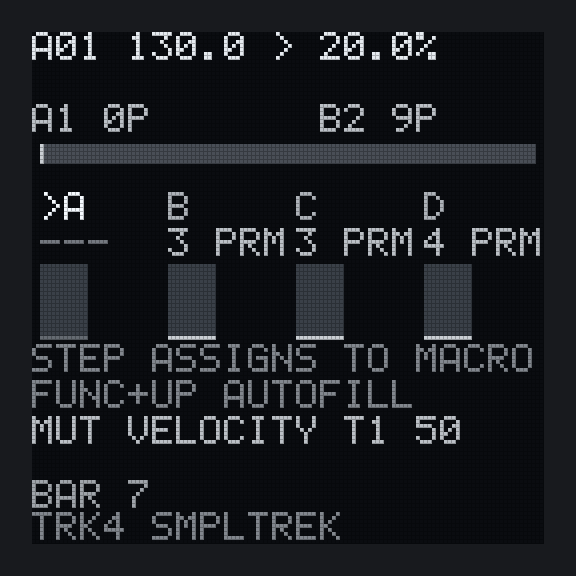
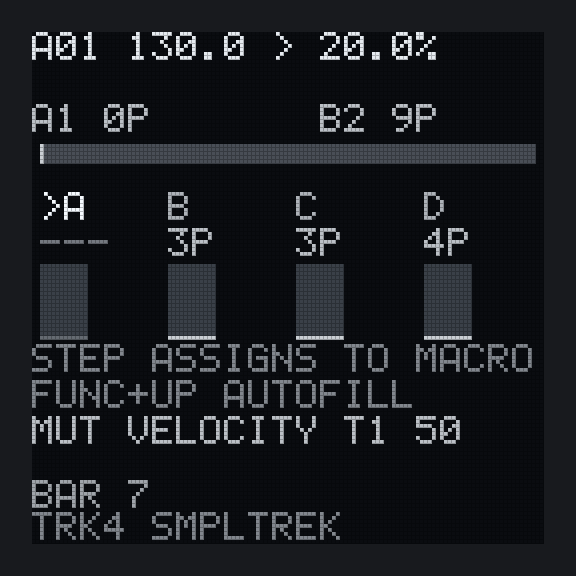
ui: PERFORM counts a macro's targets as 3P, and the layout test fails strings that run together
Four assigned macros drew "3 PRM" in 32 px slots, 3 px apart, so the row read
"3 PRM3 PRM4 PRM". The count is now "3P", as the scenes count theirs, and
layout_faults reports two strings on one line less than 4 px apart (letters
are 1 px apart; EDIT's A beside TUN is 5). The old draw fails the new check.
Screenshots, cheatsheet and manual updated.

Claude-Session: https://claude.ai/code/session_01Tw2EaFAWMhHopVCnp4V6jK

Changed region(s): [[0.75, 0.375, 0.9375, 0.4375], [0.5312, 0.375, 0.7188, 0.4375], [0.3125, 0.375, 0.5, 0.4375]]

diff --git a/tests/test_ui.cpp b/tests/test_ui.cpp
@@ -2108,6 +2108,9 @@ constexpr char kFontChars[] = " !#+-./0123456789:=?ABCDEFGHIJKLMNOPQRSTUVWXYZ%>"
 constexpr int kAdvance = 6;
 constexpr int kGlyphW = 5;
 constexpr int kGlyphH = 7;
+// The narrowest blank allowed between two strings on one line. Letters inside a string are 1 px
+// apart; EDIT's "A" beside "TUN" is 5. 3 px read as one word on PERFORM ("3 PRM3 PRM4 PRM").
+constexpr int kMinGap = 4;
 
 bool in_font(char c) {
     for (const char *p = kFontChars; *p; p++) {
@@ -2166,11 +2169,24 @@ int layout_faults(Strata &app, const char *where) {
         for (int j = 0; j < i; j++) {
             const FakeHost::TextDraw &other = host.text_draw(j);
             if (other.length == 0) continue;
-            if (overlap(b, box_of(other))) {
+            const Box o = box_of(other);
+            if (overlap(b, o)) {
                 char what[96];
                 std::snprintf(what, sizeof what, "crosses \"%s\" at (%d, %d)", other.text, other.x,
                               other.y);
                 report(d, what);
+            } else if (b.y0 <= o.y1 && o.y0 <= b.y1) {
+                // Two strings on the same line must not RUN TOGETHER. Inside a string the
+                // glyphs are 1 px apart; two strings a couple of pixels apart read as one word
+                // ("3 PRM3 PRM4 PRM" on PERFORM). So the blank between them must be at least
+                // kMinGap pixels, which is clearly wider than the gap between letters.
+                const int gap = b.x0 > o.x1 ? b.x0 - o.x1 - 1 : o.x0 - b.x1 - 1;
+                if (gap < kMinGap) {
+                    char what[96];
+                    std::snprintf(what, sizeof what, "runs into \"%s\" at (%d, %d), %d px apart",
+                                  other.text, other.x, other.y, gap);
+                    report(d, what);
+                }
             }
         }
 

diff --git a/app/app.hpp b/app/app.hpp
@@ -2731,11 +2731,14 @@ public:
 
             const int targets = macro_count(engine_.macros().macros[m]);
             out = line;
+            // "3P", as the scenes above count theirs. "3 PRM" was 29 px in a 32 px slot, so
+            // four of them ran together as "3 PRM3 PRM4 PRM" (the layout test's kMinGap now
+            // catches that).
             if (targets == 0) {
                 append(out, "---");
             } else {
                 append_number(out, uint32_t(targets));
-                append(out, " PRM");
+                *out++ = 'P';
             }
             *out = 0;
             canvas.text(x + 2, 49, line, targets == 0 ? 6 : 11);

diff --git a/docs/CHEATSHEET.md b/docs/CHEATSHEET.md
@@ -157,7 +157,7 @@ UNSAVED until it is saved with FUNC+PROJECT twice.
 | PROJECT | `SMP O.X- 12/32M` | Per track sample: O ready, . loading, X failed, - none; MiB used/budget |
 | PROJECT | `UNSAVED`, `NO CARD` | RAM differs from the card; no usable card |
 | KIT | `>03 KIT`, `EMPTY`, `UNREADABLE`, `...` | Cursor and slot: holds a kit, nothing, a damaged file, not read yet; the cursor's kit below as two lines of four machines |
-| PERFORM | `A1 12P`, `>A`, `3 PRM` | Scene slot and its parameter count; selected macro; macro targets |
+| PERFORM | `A1 12P`, `>A`, `3P` | Scene slot and its parameter count; selected macro; macro targets |
 | PERFORM | `MUT NOTES T1 50`, `FILL AF16 1/16- DLY`, `BAR n` | Mutation, track, amount; fill, auto-fill, repeat (`-` pitched down), throw; bar count |
 | MIXER | `T1 M`, `ON`/`--`, `PEAK` | Track muted; machine present; master peak |
 | RESAMPLE | `TO FILE`, `ARMED`, `REC 40%`, `WRITING`, `LAST name` | Destination and take state |

diff --git a/docs/MANUAL.md b/docs/MANUAL.md
@@ -506,7 +506,7 @@ then undo your knob moves and morph back and forth. The morph position itself is
 ### Macros
 
 In PERFORM the four macros sit across the screen: `>A`, `B`, `C`, `D`, each with `---` (empty) or
-the number of parameters it drives (`3 PRM`), and a bar showing its position.
+the number of parameters it drives (`3P`), and a bar showing its position.
 
 **How a macro moves the sound.** Each parameter on a macro has a target value. At **0** the macro
 writes nothing: the parameter is wherever its EDIT knob and the morph put it, and you can keep
